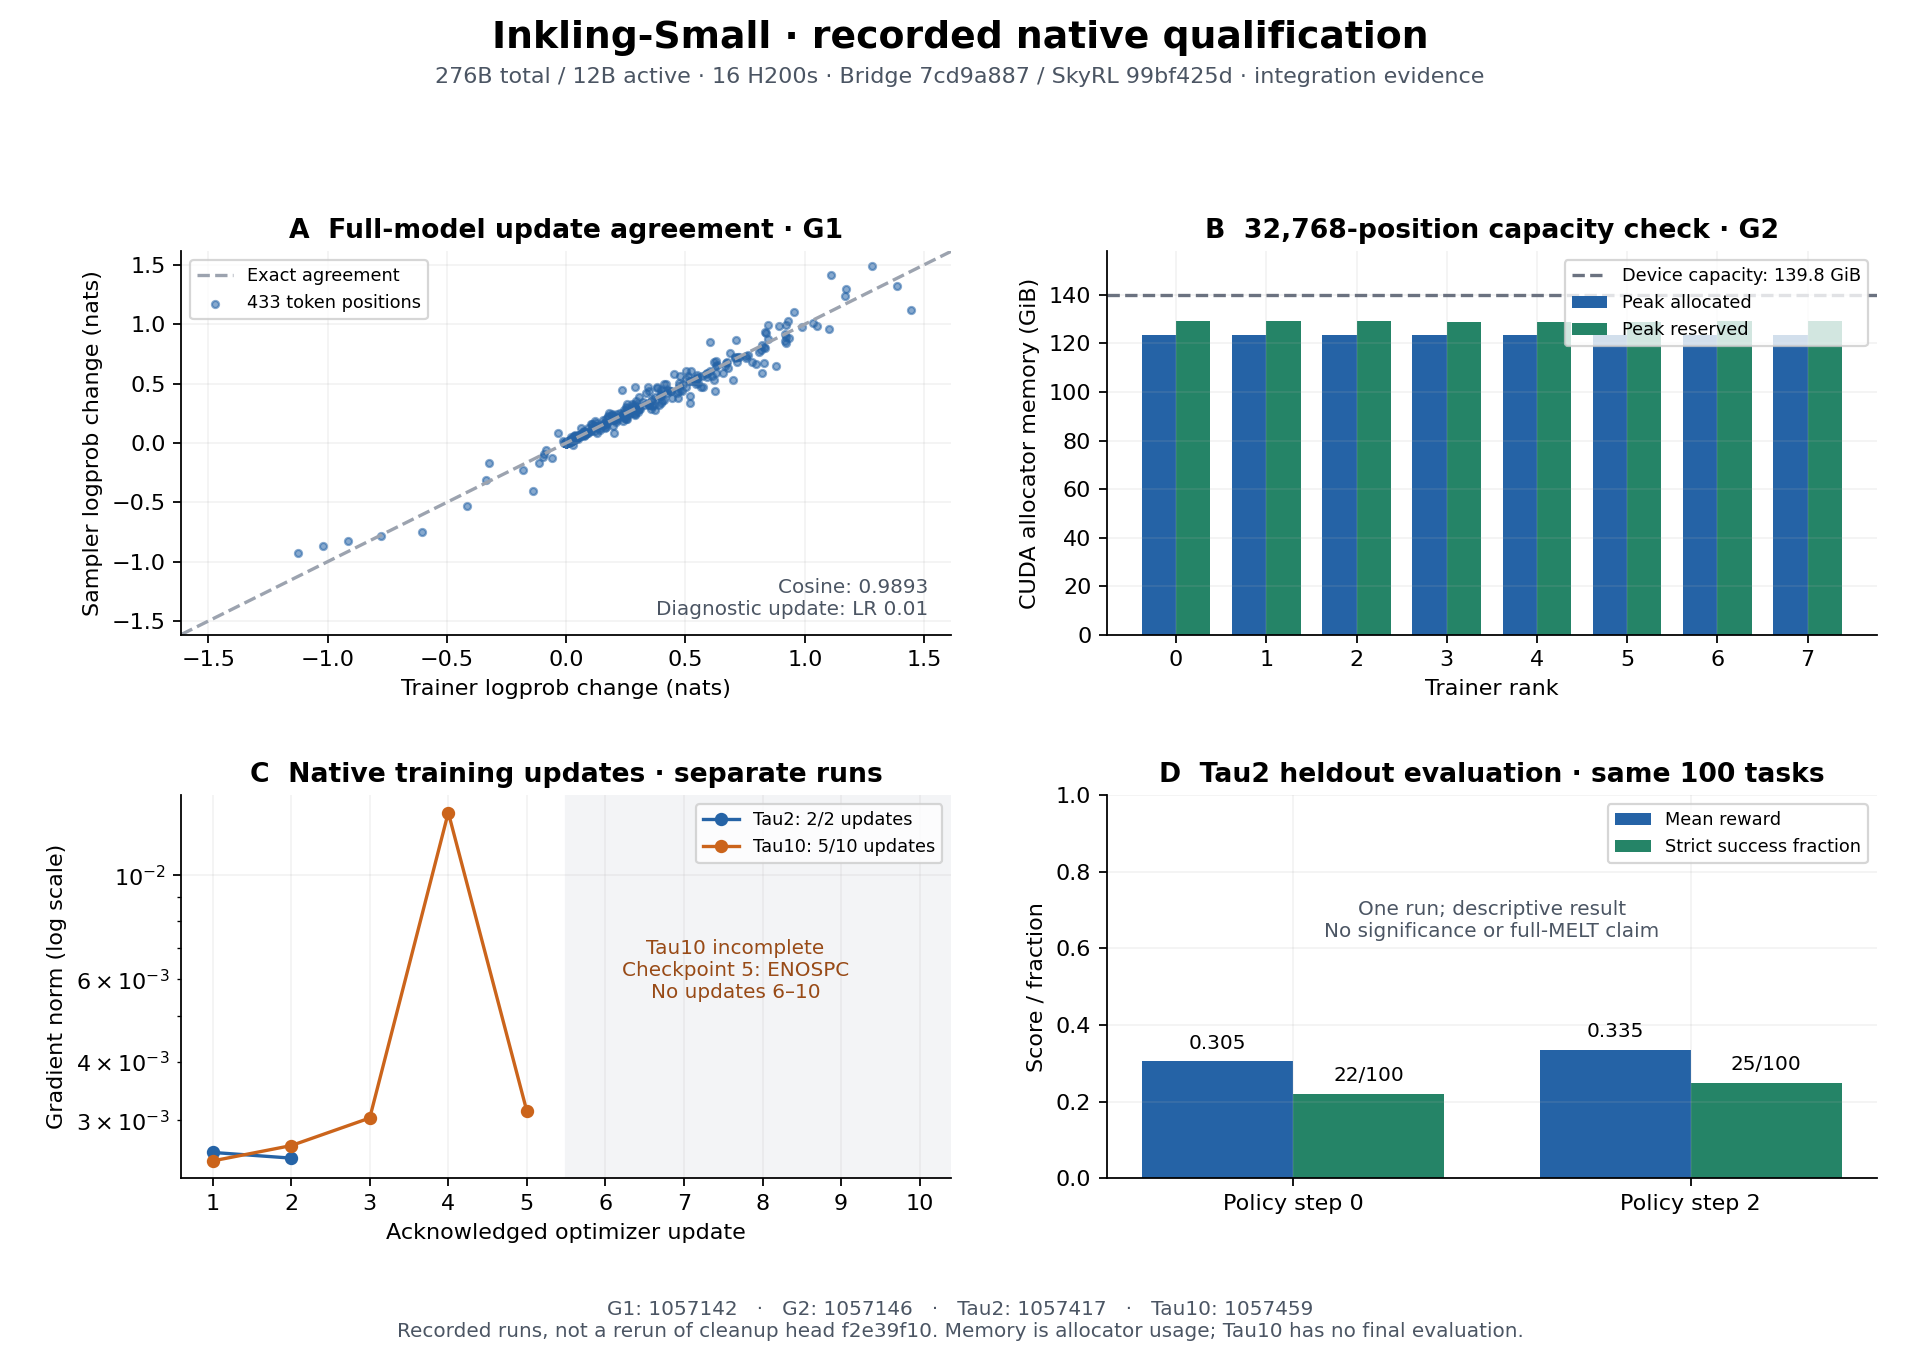
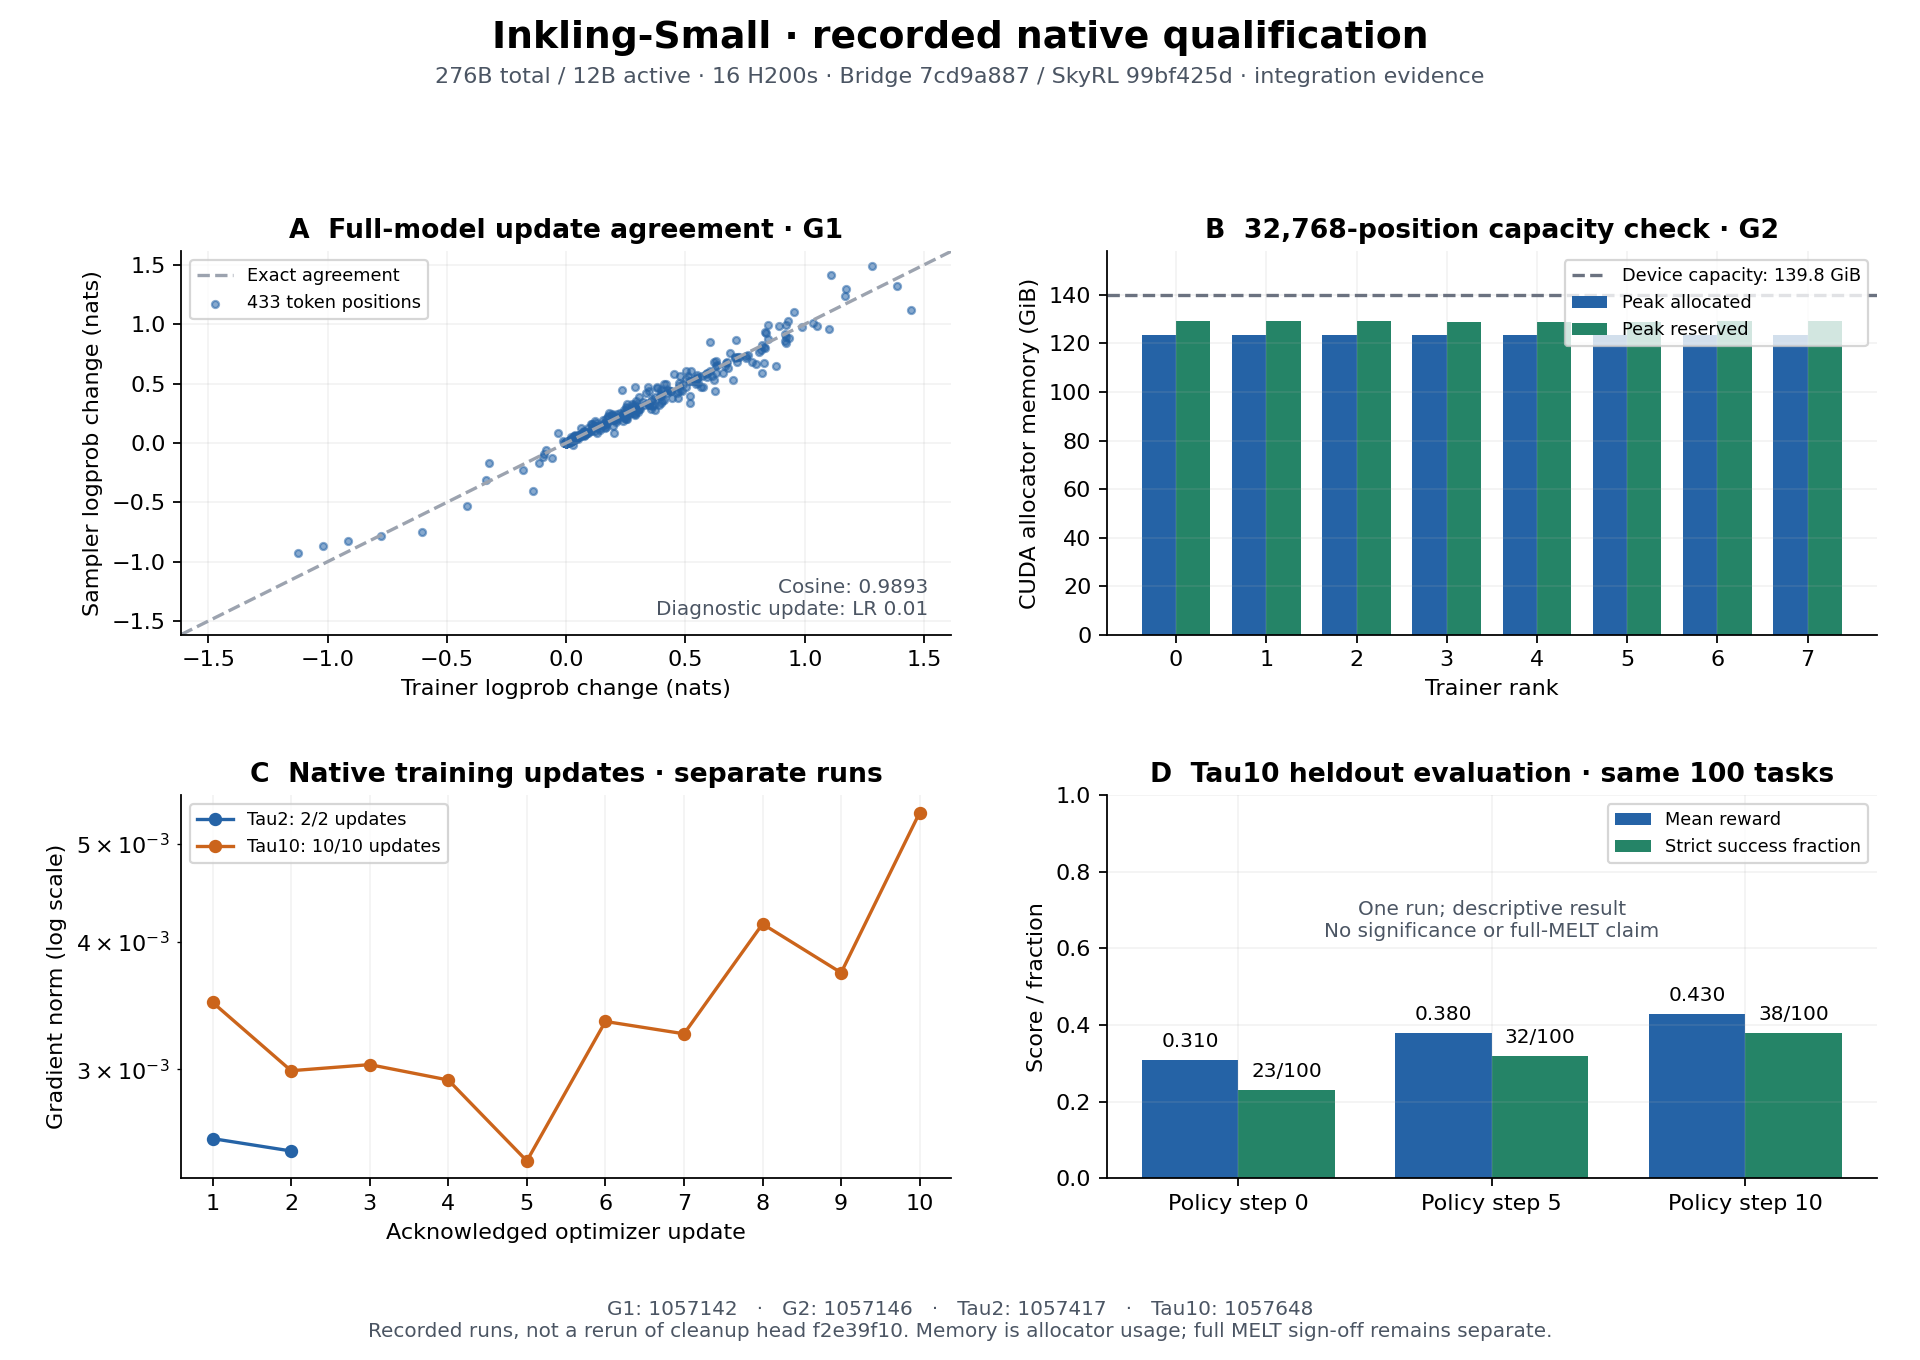
docs: update Inkling plots with completed Tau10 evaluation

diff --git a/render.py b/render.py
@@ -214,7 +214,7 @@ def native_qualification():
     ax = axs[1, 0]
     for key, label, color in [
         ("tau2", "Tau2: 2/2 updates", BLUE),
-        ("tau10", "Tau10: 5/10 updates", ORANGE),
+        ("tau10", "Tau10: 10/10 updates", ORANGE),
     ]:
         rows = data[key]["updates"]
         assert all(
@@ -228,16 +228,6 @@ def native_qualification():
             label=label,
             markersize=5,
         )
-    ax.axvspan(5.5, 10.5, color="#f3f4f6")
-    ax.text(
-        0.72,
-        0.47,
-        "Tau10 incomplete\nCheckpoint 5: ENOSPC\nNo updates 6–10",
-        transform=ax.transAxes,
-        ha="center",
-        fontsize=9,
-        color="#984a16",
-    )
     ax.set(
         yscale="log",
         xticks=range(1, 11),
@@ -246,12 +236,13 @@ def native_qualification():
         ylabel="Gradient norm (log scale)",
         title="C  Native training updates · separate runs",
     )
-    ax.legend(fontsize=8, loc="upper right")
+    ax.legend(fontsize=8, loc="upper left")
 
     ax = axs[1, 1]
-    rows = data["tau2"]["evaluation"]
-    assert len(rows) == 2 and all(r["n"] == 100 for r in rows)
-    x = np.arange(2)
+    rows = data["tau10"]["evaluation"]
+    assert [r["policy_step"] for r in rows] == [0, 5, 10]
+    assert all(r["n"] == 100 for r in rows)
+    x = np.arange(len(rows))
     for offset, values, color, label in [
         (-0.19, [r["mean_reward"] for r in rows], BLUE, "Mean reward"),
         (
@@ -273,7 +264,7 @@ def native_qualification():
         xticklabels=[f"Policy step {r['policy_step']}" for r in rows],
         ylim=(0, 1),
         ylabel="Score / fraction",
-        title="D  Tau2 heldout evaluation · same 100 tasks",
+        title="D  Tau10 heldout evaluation · same 100 tasks",
     )
     ax.legend(fontsize=8, loc="upper right")
     ax.text(
@@ -290,8 +281,8 @@ def native_qualification():
         "native-qualification.png",
         "Inkling-Small · recorded native qualification",
         "276B total / 12B active · 16 H200s · Bridge 7cd9a887 / SkyRL 99bf425d · integration evidence",
-        "G1: 1057142   ·   G2: 1057146   ·   Tau2: 1057417   ·   Tau10: 1057459\n"
-        "Recorded runs, not a rerun of cleanup head f2e39f10. Memory is allocator usage; Tau10 has no final evaluation.",
+        "G1: 1057142   ·   G2: 1057146   ·   Tau2: 1057417   ·   Tau10: 1057648\n"
+        "Recorded runs, not a rerun of cleanup head f2e39f10. Memory is allocator usage; full MELT sign-off remains separate.",
     )
 
 

diff --git a/README.md b/README.md
@@ -60,9 +60,19 @@ They were not rerun on cleanup head `f2e39f10`.
   and the same 100 heldout tasks at policies 0 and 2. Mean reward 0.305 to 0.335
   and strict successes 22 to 25 are descriptive single-run results. There were
   13 improved, 78 unchanged and nine worsened task rewards.
-- **Tau10, XID 1057459:** five of ten updates completed, with 2,560 clean trained
-  trajectories. Checkpoint 5 failed with ENOSPC. No final paired evaluation
-  exists, and the plot does not interpolate the missing updates.
+- **Tau10, XID 1057648:** ten of ten updates completed, with 5,120 trained
+  trajectories and zero terminal errors. The same 100 heldout tasks at policies
+  0, 5 and 10 had mean rewards **0.31 / 0.38 / 0.43** and strict successes
+  **23 / 32 / 38 out of 100**. From policy 0 to 10, task rewards improved on 23,
+  were unchanged on 68 and worsened on nine. These are descriptive single-run
+  results. Checkpoints 0, 5 and 10 committed; the runner exited successfully.
+  This fresh run used the same GPU runtime, plus the merged CPU checkpoint
+  completion check in Trajectory PR #6490 (source `43329a6a`). Full MELT
+  sign-off and maintainer GPU CI remain separate.
+- **Prior Tau10 attempt, XID 1057459:** stopped after five of ten updates when
+  checkpoint 5 failed with ENOSPC. Its recorded data remain in
+  `tau10_failed_attempt` in the JSON; its updates are not combined with the
+  completed fresh run.
 
 Pass/fail checks, skipped CUDA tests and remaining qualification gates are
 listed separately in the PR rather than converted into a combined pass rate.
